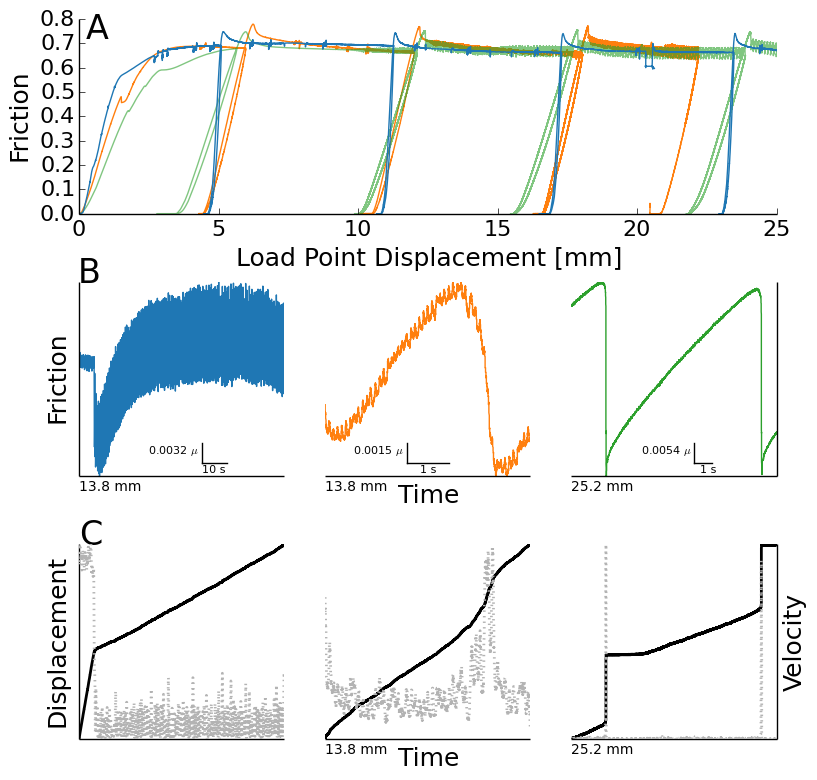
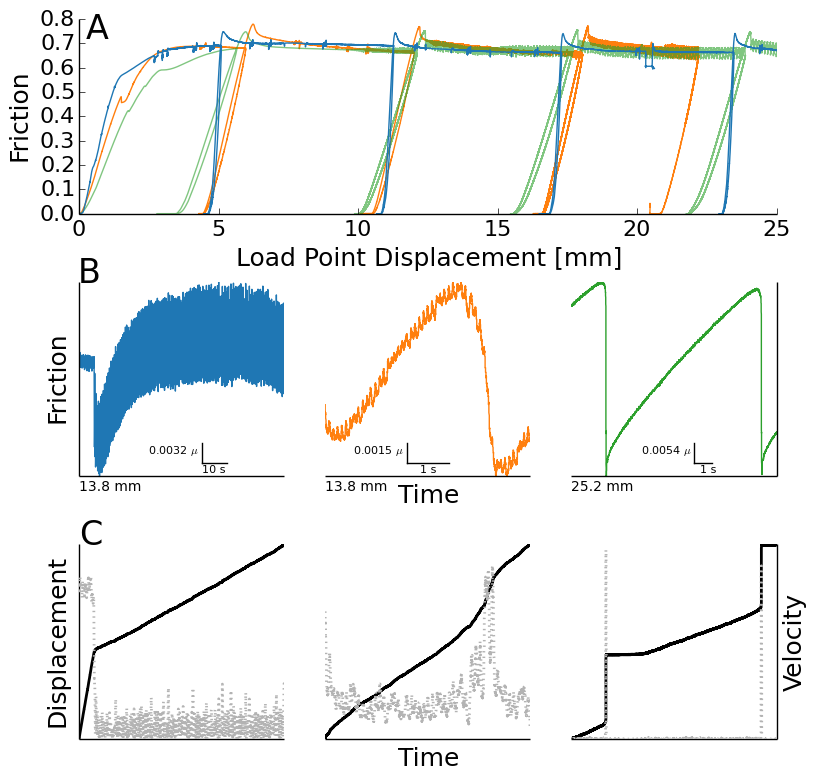
Zero reference velocity plots and remove more clutter

diff --git a/Figures/Fig_Runplot/runplot.py b/Figures/Fig_Runplot/runplot.py
@@ -333,6 +333,8 @@ velocity = rslope(p4309['Time'].reshape(p4309['Time'].size),p4309['On_Board'].re
 axE2.plot(p4309['Time'] - p4309['Time'][0],velocity,color='0.7',linewidth=2,
         linestyle=':',label='p4309')
 
+# Set Velocity Axis Limits
+axE2.set_ylim(0,15)
 
 
 # Add scale bars
@@ -395,6 +397,9 @@ velocity = rslope(p4311['Time'].reshape(p4311['Time'].size),p4311['On_Board'].re
 axF2.plot(p4311['Time'] - p4311['Time'][0],velocity,color='0.7',linewidth=2,
         linestyle=':',label='p4311')
 
+# Set Velocity Axis Limits
+axF2.set_ylim(0,50)
+
 
 # # Add scale bars
 # mu_ref = 0.07 * (axF.get_ylim()[1] - axF.get_ylim()[0]) + axF.get_ylim()[0]
@@ -412,7 +417,7 @@ axF2.plot(p4311['Time'] - p4311['Time'][0],velocity,color='0.7',linewidth=2,
 # axF2.text(t_ref+1.1*dt,d_ref+0.5*ddis,'%.1f $\mu m$'%ddis,fontsize=8)
 
 # Add starting disp text to plot
-axF.text(0,-0.07,'%.1f mm' %(p4311['LP_Disp'][0]/1000.),fontsize=10,transform = axF.transAxes)
+#axF.text(0,-0.07,'%.1f mm' %(p4311['LP_Disp'][0]/1000.),fontsize=10,transform = axF.transAxes)
 
 #
 # Plot G
@@ -457,6 +462,9 @@ velocity = rslope(p4316['Time'].reshape(p4316['Time'].size),p4316['On_Board'].re
 axG2.plot(p4316['Time'] - p4316['Time'][0],velocity,color='0.7',linewidth=2,
         linestyle=':',label='p4316')
 
+# Set Velocity Axis Limits
+axG2.set_ylim(0,2100)
+
 
 # Add scale bars
 # mu_ref = 0.07 * (axG.get_ylim()[1] - axG.get_ylim()[0]) + axG.get_ylim()[0]
@@ -474,7 +482,7 @@ axG2.plot(p4316['Time'] - p4316['Time'][0],velocity,color='0.7',linewidth=2,
 # axG2.text(t_ref+1.1*dt,d_ref+0.5*ddis,'%.1f $\mu m$'%ddis,fontsize=8)
 
 # Add starting disp text to plot
-axG.text(0,-0.07,'%.1f mm' %(p4316['LP_Disp'][0]/1000.),fontsize=10,transform = axG.transAxes)
+#axG.text(0,-0.07,'%.1f mm' %(p4316['LP_Disp'][0]/1000.),fontsize=10,transform = axG.transAxes)
 
 
 plt.savefig('runplot.png', bbox_inches="tight")
